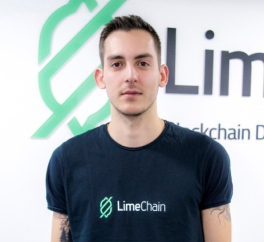
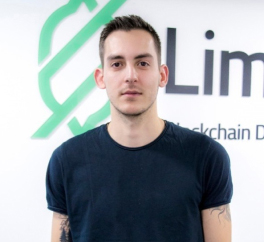
updated open graph images and metadata

Changed region(s): [[0.3636, 0.8099, 0.6364, 0.8967]]

diff --git a/public/index.html b/public/index.html
@@ -9,6 +9,23 @@
       name="description"
       content="Kristiyan Srebrev's Portfolio. Product designer with some frontend knowledge."
     />
+
+    <!-- Open Graph / Facebook -->
+    <meta property="og:type" content="website">
+    <meta property="og:url" content="https://kristiyansrebrev.com/">
+    <meta property="og:title" content="Kristiyan Srebrev's portfolio">
+    <meta property="og:description"
+      content="Kristiyan Srebrev's Portfolio. Product designer with some frontend knowledge.">
+    <meta property="og:image" content="/og-image.png">
+    
+    <!-- Twitter -->
+    <meta property="twitter:card" content="summary_large_image">
+    <meta property="twitter:url" content="https://kristiyansrebrev.com/">
+    <meta property="twitter:title" content="EnterDAO">
+    <meta property="twitter:description"
+      content="Kristiyan Srebrev's Portfolio. Product designer with some frontend knowledge.">
+    <meta property="twitter:image" content="/og-image.png">
+
     <link rel="apple-touch-icon" href="%PUBLIC_URL%/logo192.png" />
     <link rel="manifest" href="%PUBLIC_URL%/manifest.json" />
     <link rel="preconnect" href="https://fonts.googleapis.com">
